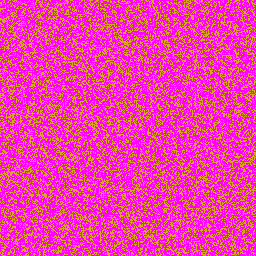
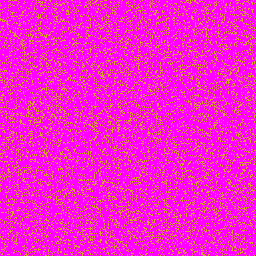
small fix

Changed region(s): [[0.0, 0.0, 1.0, 1.0]]

diff --git a/src/ExampleApp.cpp b/src/ExampleApp.cpp
@@ -57,6 +57,7 @@ void ExampleApp::onButtonDown(const VRButtonEvent &event) {
 	 if (name == "MouseBtnLeft_Down") {
 		 mouseDown = true;
 	}
+
 }
 
 void ExampleApp::onButtonUp(const VRButtonEvent &event) {
@@ -85,7 +86,7 @@ void ExampleApp::onCursorMove(const VRCursorEvent &event) {
 		mat4 rotationX = toMat4(angleAxis(radians(dxy.x), vec3(0, 1, 0)));
 		mat4 rotationY = toMat4(angleAxis(radians(dxy.y), vec3(1, 0, 0)));
 
-		rotation = rotationX * rotationY * rotation;
+		rotation =	rotationX * rotationY * rotation;
 	}
 
 
@@ -270,7 +271,7 @@ void ExampleApp::setupGeometry(std::shared_ptr<basicgraphics::Mesh>& _mesh) {
 	}
 
 	////compute the number of opaque pixels = nr of hair strands
-	int nrStrands = (int)(0.5f * totalPixels);
+	int nrStrands = (int)(0.25f * totalPixels);
 
 	////fill texture with opaque pixels
 	for (int i = 0; i < nrStrands; i++)
@@ -286,7 +287,7 @@ void ExampleApp::setupGeometry(std::shared_ptr<basicgraphics::Mesh>& _mesh) {
 
 	////set the pixels on the texture.
 
-	int basd = 2;
+	int basd = 22;
 	
 
 	//coulumn major order
@@ -315,9 +316,10 @@ glm::vec3 ExampleApp::getPosition(double latitude, double longitude) {
 void ExampleApp::furLengthLoop() {
 	int nrLayers = 30;
 	for (int i = 0; i < nrLayers; i++) {
-		_shader.setUniform("currentLayer", (float)i/nrLayers);
-		sphere_mesh->draw(_shader);
 
+		std::cout << ((float)i) / ((float)nrLayers) << std::endl;
+		_shader.setUniform("CurrentLayer", ((float)i)/((float)nrLayers));
+		sphere_mesh->draw(_shader);
 	}
 }
 
